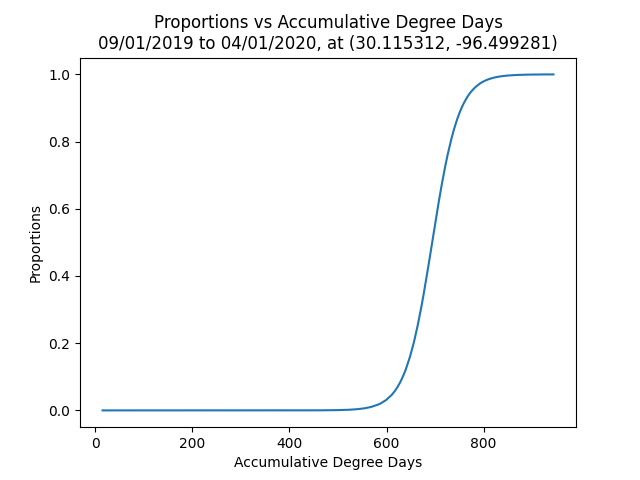
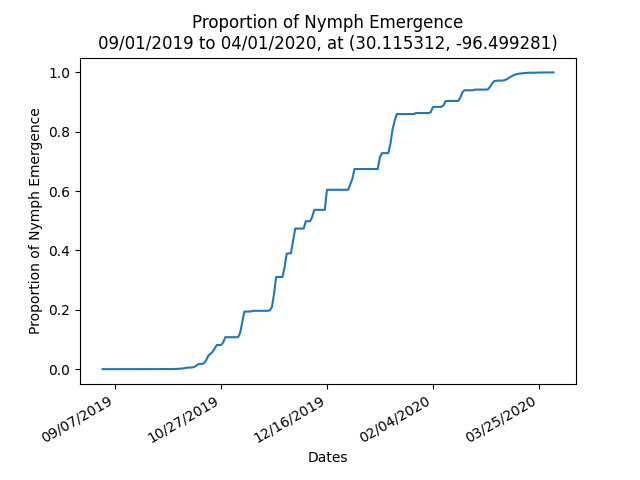
use dates as x axis

diff --git a/fleahoppers.py b/fleahoppers.py
@@ -4,6 +4,7 @@ import numpy as np
 import rasterio
 import datetime as dt
 import matplotlib.pyplot as plt
+import matplotlib.dates as mdates
 		
 start_date = get_start_date()
 end_date = get_end_date()
@@ -17,6 +18,7 @@ B0 = -25.1941
 B1 = 0.0363
 
 accumulated_degree_days = []
+dates = []
 temp_summation = 0
 proportions = []
 
@@ -36,11 +38,18 @@ while current_date <= end_date:
 	numerator = math.exp(B0 + B1*temp_summation)
 	proportion = numerator / (1 + numerator)
 	proportions.append(proportion)
+	
+	dates.append(current_date)
 
 	current_date = current_date + dt.timedelta(days=1)
 
-plt.plot(accumulated_degree_days, proportions)
-plt.title(f"Proportion of Nymph Emergence vs Accumulated Degree-Days\n{start_date.strftime('%m/%d/%Y')} to {end_date.strftime('%m/%d/%Y')}, at ({latitude}, {longitude})")
-plt.xlabel("Accumulated Degree-Days")
+plt.gca().xaxis.set_major_formatter(mdates.DateFormatter('%m/%d/%Y'))
+plt.gca().xaxis.set_major_locator(mdates.DayLocator(interval=50))
+
+plt.plot(dates, proportions)
+plt.gcf().autofmt_xdate()
+
+plt.title(f"Proportion of Nymph Emergence\n{start_date.strftime('%m/%d/%Y')} to {end_date.strftime('%m/%d/%Y')}, at ({latitude}, {longitude})")
+plt.xlabel("Dates")
 plt.ylabel("Proportion of Nymph Emergence")
 plt.savefig("fleahoppers.png") 

diff --git a/thrips.py b/thrips.py
@@ -3,6 +3,7 @@ from math import exp, sqrt, pow, pi
 import rasterio
 import datetime as dt
 import matplotlib.pyplot as plt
+import matplotlib.dates as mdates
 		
 start_date = get_start_date()
 end_date = get_end_date()
@@ -18,6 +19,7 @@ peak = 237			# 237 DD is how many it takes to get from egg to adult for this spe
 
 temp_summation = 0
 accumulated_degree_days = []
+dates = []
 thrips_magnitudes = []
 
 current_date = start_date
@@ -40,11 +42,18 @@ while current_date <= end_date:
 
 	accumulated_degree_days.append(temp_summation)
 	thrips_magnitudes.append(magnitude)
+	
+	dates.append(current_date)
 
 	current_date = current_date + dt.timedelta(days=1)
 
-plt.scatter(accumulated_degree_days, thrips_magnitudes) 
+plt.gca().xaxis.set_major_formatter(mdates.DateFormatter('%m/%d/%Y'))
+plt.gca().xaxis.set_major_locator(mdates.DayLocator(interval=50))
+
+plt.plot(dates, thrips_magnitudes)
+plt.gcf().autofmt_xdate()
+
 plt.title(f"Thrips Mixture Distribution\n{start_date.strftime('%m/%d/%Y')} to {end_date.strftime('%m/%d/%Y')}, at ({latitude}, {longitude})")
-plt.xlabel("Accumulated Degree-Days")
+plt.xlabel("Dates")
 plt.ylabel("Thrips Magnitude")
 plt.savefig("thrips.png") 

diff --git a/README.md b/README.md
@@ -49,7 +49,7 @@ Instead of using the `download-data.sh` script, the `setup.py` will be used to r
 Values for start date, end date, folder name, longitude, and latitude are all hardcoded and can be changed depending on user needs. The `setup.py` file only needs to be run once or after every change to start or end date. There will be no need to run it again if folder name, longitude, or latitude values are changed.
 
 ## Running Models
-To run `setup.py`, run `python3 setup.py`. As noted earlier, depending on the amount of files in the `daily-data` folder and date range, expect a long running time of around 10 to 20 minutes. To run the fleahoppers model, run `python3 fleahoppers.py`. This will generate an image file of a graph of Proportion of Nymph Emergence vs Accumulative Degree Days. The file will be called `fleahoppers.png`. To run the thrips mode, run `python3 thrips.py`. This will generate an image file of a graph of Thrips Magnitude vs Accumulative Degree Days. The file will be called `thrips.png`.
+To run `setup.py`, run `python3 setup.py`. As noted earlier, depending on the amount of files in the `daily-data` folder and date range, expect a long running time of around 10 to 20 minutes. To run the fleahoppers model, run `python3 fleahoppers.py`. This will generate an image file of a graph of Proportion of Nymph Emergence. The file will be called `fleahoppers.png`. To run the thrips mode, run `python3 thrips.py`. This will generate an image file of a graph of Thrips Magnitude. The file will be called `thrips.png`.
 
 ## Sample Graph Output
 ### Using data from September 1, 2019 to April 1, 2020 at (30.115312, -96.499281)
